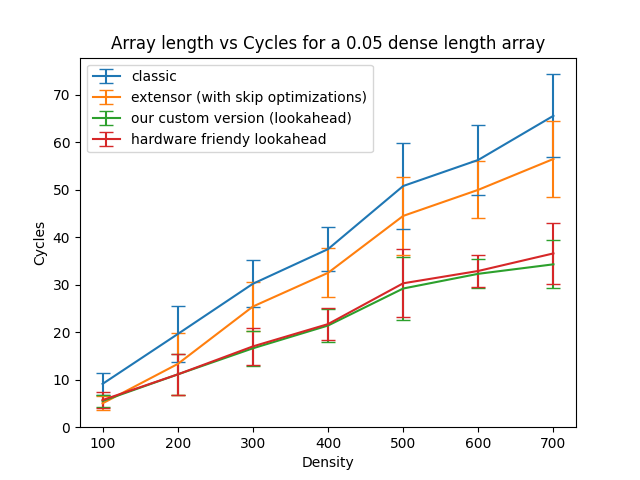
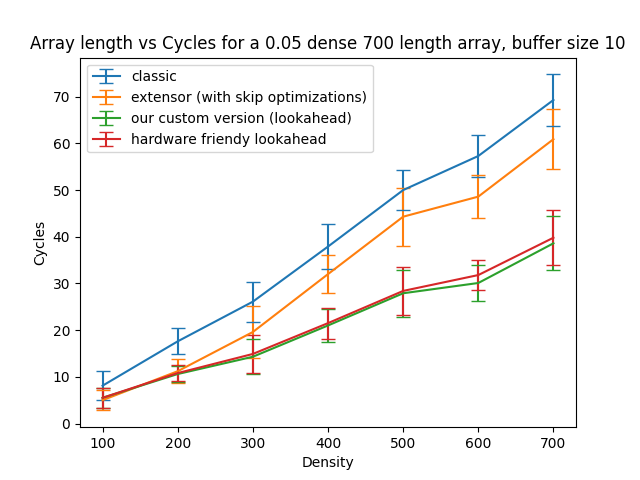
added all

diff --git a/plot.py b/plot.py
@@ -16,13 +16,14 @@ trials = 10
 # Plot 1. N = T. 2 streams of the same length, but increasing density.
 densities = [0.01, 0.05, 0.1, 0.2, 0.3, 0.4, 0.5]
 results=[[],[],[],[]]
+buf=10
 for d in densities:
     for i in range(4):
         results[i].append(Trial())
 l = 1000
 for trial in range(trials):
     for idx, d in enumerate(densities):
-        temp = test_matmul(d, d, 1, l, 1, 10, 10, 10)
+        temp = test_matmul(d, d, 1, l, 1, buf, buf, buf)
         print(temp)
         assert(len(temp)   == 4)
         for i in range(4):
@@ -31,7 +32,7 @@ for i in range(4):
     plt.errorbar(densities, list(map(lambda x : x.mean(), results[i])), list(map(lambda x: x.std(), results[i])), label=collider_names[i], capsize=3)
 plt.xlabel('Density')
 plt.ylabel('Cycles')
-plt.title('Density vs Cycles for a 1000 length array')
+plt.title(f'Density vs Cycles for a {l} length array, buffer size {buf}')
 # Show labels
 plt.legend()
 plt.savefig('plt1.png')
@@ -44,12 +45,13 @@ plt.clf()
 lengths = [100, 200, 300, 400, 500, 600, 700]
 results=[[], [], [], []]
 density = 0.05
+buf = 10
 for l in lengths:
     for i in range(4):
         results[i].append(Trial())
 for trial in range(trials):
     for idx, l in enumerate(lengths):
-        temp = test_matmul(density, density, 1, l, 1, 10, 10, 10)
+        temp = test_matmul(density, density, 1, l, 1, buf, buf, buf)
         print(temp)
         assert(len(temp)  == 4)
         for i in range(4):
@@ -59,7 +61,7 @@ for i in range(4):
     plt.errorbar(lengths, list(map(lambda x : x.mean(), results[i])), list(map(lambda x: x.std(), results[i])), label=collider_names[i], capsize=5)
 plt.xlabel('Density')
 plt.ylabel('Cycles')
-plt.title('Array length vs Cycles for a 0.05 dense length array')
+plt.title(f'Array length vs Cycles for a {density} dense {l} length array, buffer size {buf}')
 # Show labels
 plt.legend()
 plt.savefig('plt2.png')
@@ -85,7 +87,7 @@ for i in range(1,4):
     plt.errorbar(Ts, list(map(lambda x : x.mean(), results[i])), list(map(lambda x: x.std(), results[i])), label=collider_names[i], capsize=5)
 plt.xlabel('Buffer size')
 plt.ylabel('Cycles')
-plt.title('Buffer size vs Cycles for a 0.05 dense 1000 length array')
+plt.title(f'Buffer size vs Cycles for a {density} dense {length} length array')
 # Show labels
 plt.legend()
 plt.savefig('plt3.png')
@@ -127,12 +129,15 @@ plt.clf()
 # plt.clf()
 
 # Plot a histogram of the results
-results = test_skips(0.05, 0.05, 1, 1000, 1, 10, 10, 10)
+density = 0.05
+length = 1000
+buf = 10
+results = test_skips(density, density, 1, length, 1, buf, buf, buf)
 for result in results:
     plt.hist(result[1], bins=8, label=collider_names[result[0]], alpha=0.5)
 plt.xlabel('Skips')
 plt.ylabel('Frequency')
-plt.title('Skips for 0.05 dense 1000 length array')
+plt.title(f'Skips for {density} dense {length} length array')
 plt.legend()
 plt.savefig('plt4.png')
 
